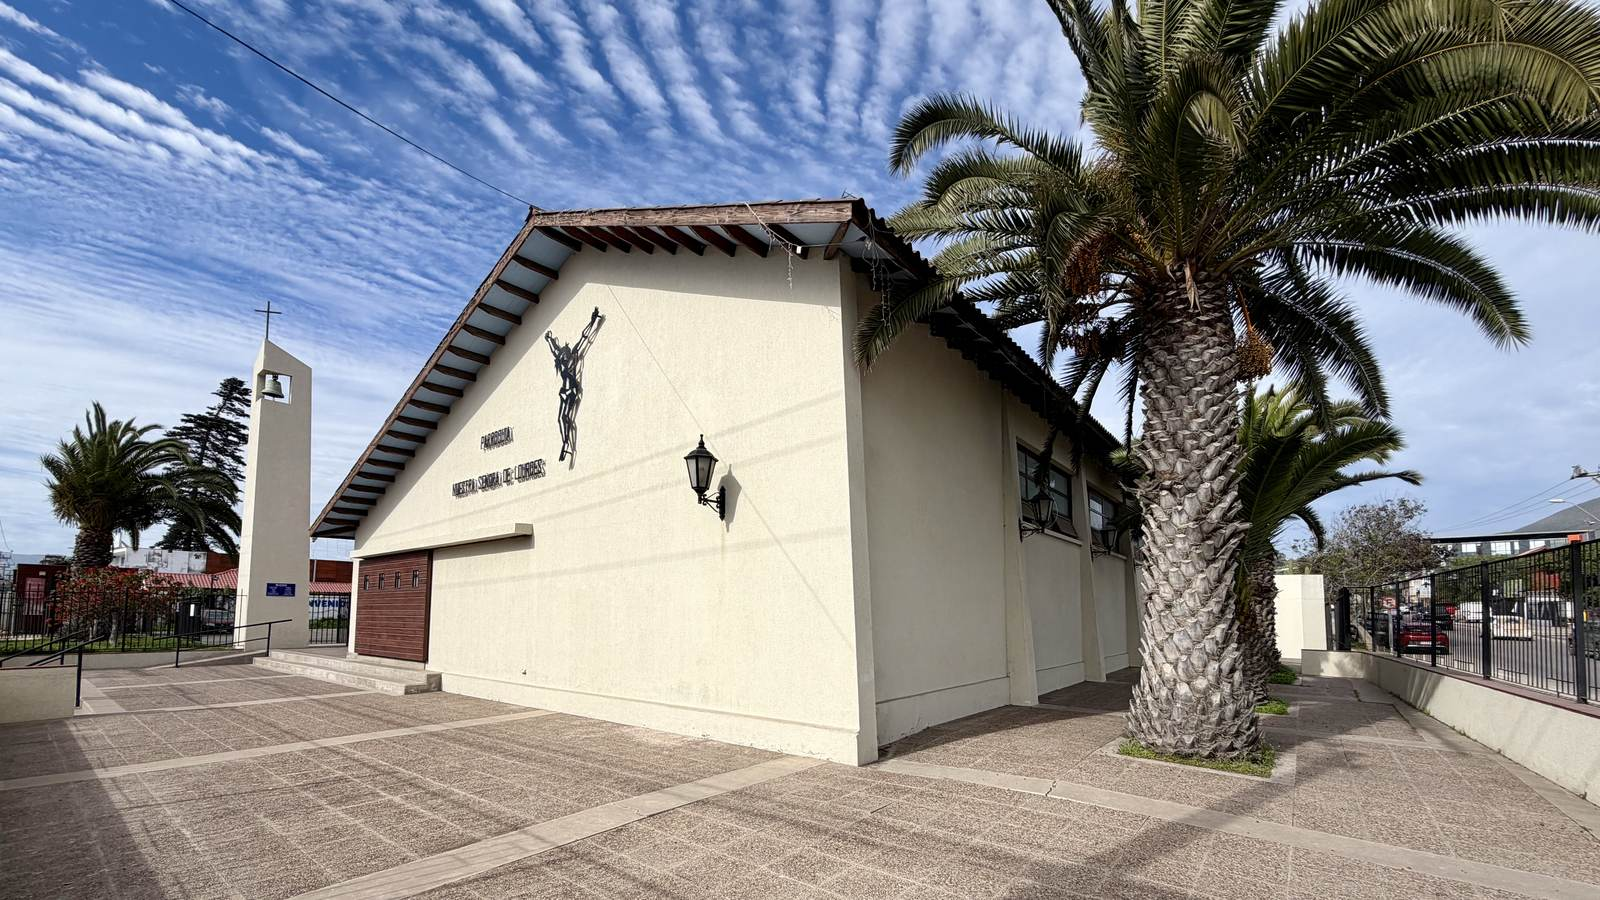
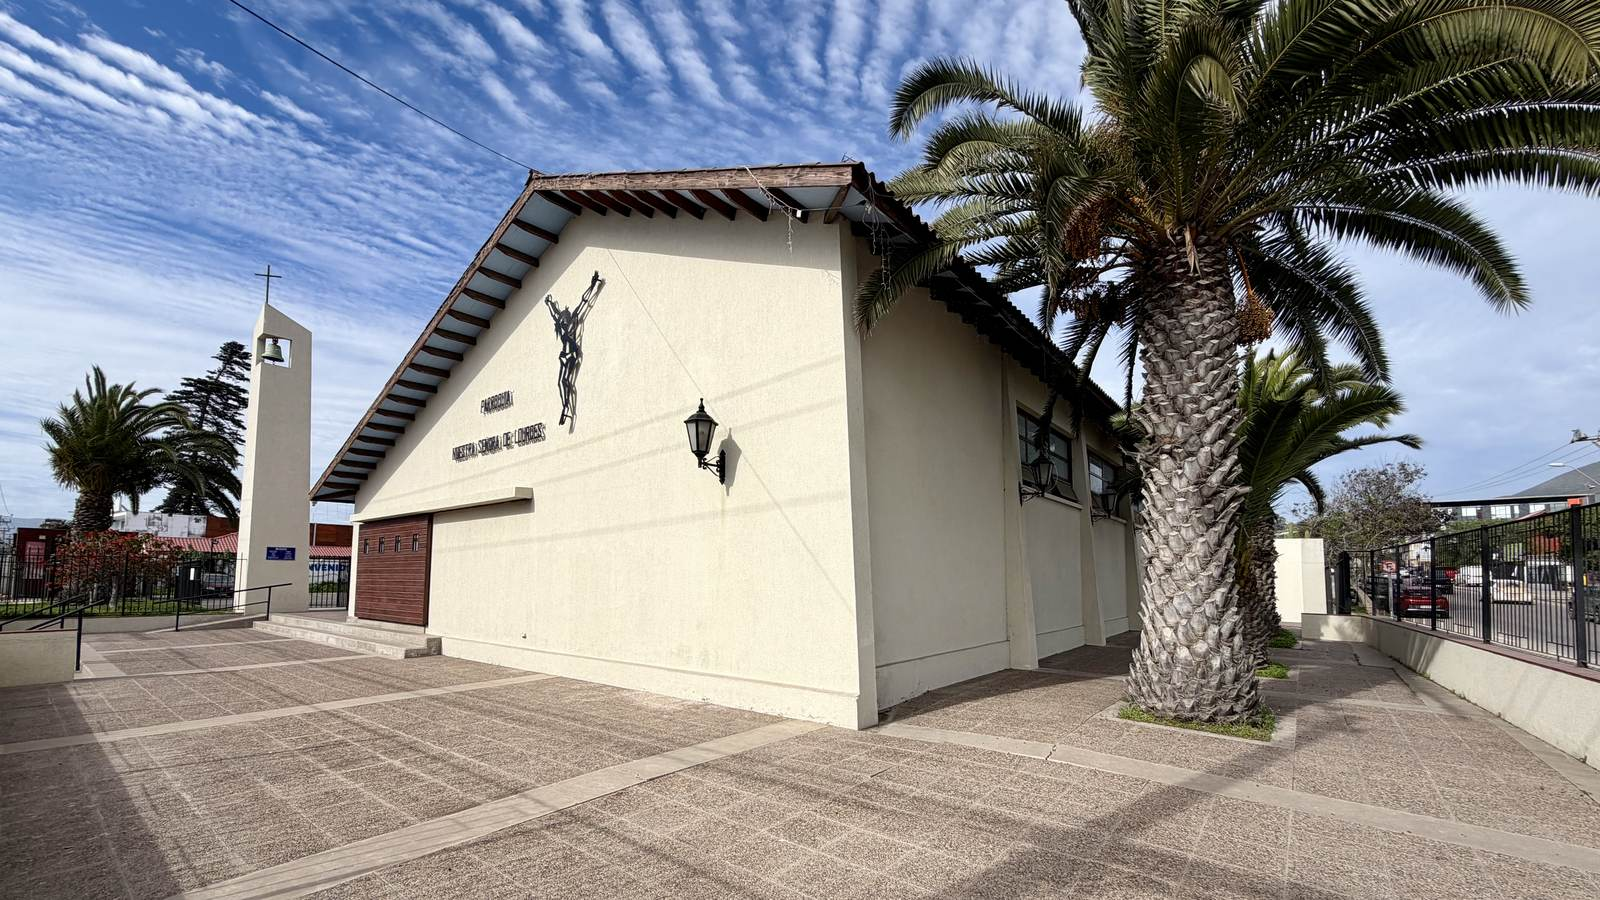
La portada centra la parroquia, con menos cielo
El ajuste anterior se pasó para el otro lado: quedó demasiado cielo. Ahora el
edificio queda centrado por los dos lados a la vez, en el archivo y en el CSS.

El recorte del original baja de 0,40 a 0,43 de la altura, que es donde queda el
centro del edificio, y el encuadre del fondo sube de 24% a 48%. Así el frontis
ocupa el centro de la banda, el cielo se reduce a una franja y el pavimento a
otra.

En el teléfono hacía falta algo más. Ahí el hueco es casi cuadrado, así que la
foto se recorta a lo ancho y no a lo alto: con el encuadre centrado quedaba la
palmera y el pavimento, y la parroquia fuera de cuadro. El fondo móvil se corre
al 38% horizontal, que es donde está el frontis con el crucifijo.

diff --git a/sitio/assets/css/sitio.css b/sitio/assets/css/sitio.css
@@ -449,7 +449,7 @@ img.ficha__foto { width: 100%; height: 100%; object-fit: contain; padding: 12px;
 .hero {
   position: relative;
   min-height: 530px;
-  background: url("../img/portada-parroquia.jpg") center 24% / cover no-repeat;
+  background: url("../img/portada-parroquia.jpg") center 48% / cover no-repeat;
   display: flex;
   align-items: center;
   padding: 56px var(--canaleta);
@@ -976,7 +976,10 @@ img.capilla__foto { width: 100%; height: min(300px, 58vw); object-fit: cover; }
   /* Fondos livianos: en el teléfono no se aprecia la diferencia y pesan
      un tercio. */
   .hero { min-height: 0; padding: 52px var(--canaleta);
-    background-image: url("../img/portada-parroquia-movil.jpg"); }
+    background-image: url("../img/portada-parroquia-movil.jpg");
+    /* El hueco del teléfono es casi cuadrado y recorta a lo ancho: se corre el
+       encuadre hacia el frontis para que no quede solo palmera y pavimento. */
+    background-position: 38% 45%; }
   .hero__velo { background: linear-gradient(180deg, rgba(255, 255, 255, .93) 0%, rgba(255, 255, 255, .84) 100%); }
   .hero__titulo { font-size: 38px; }
   .hero__horario { font-size: 20px; }
